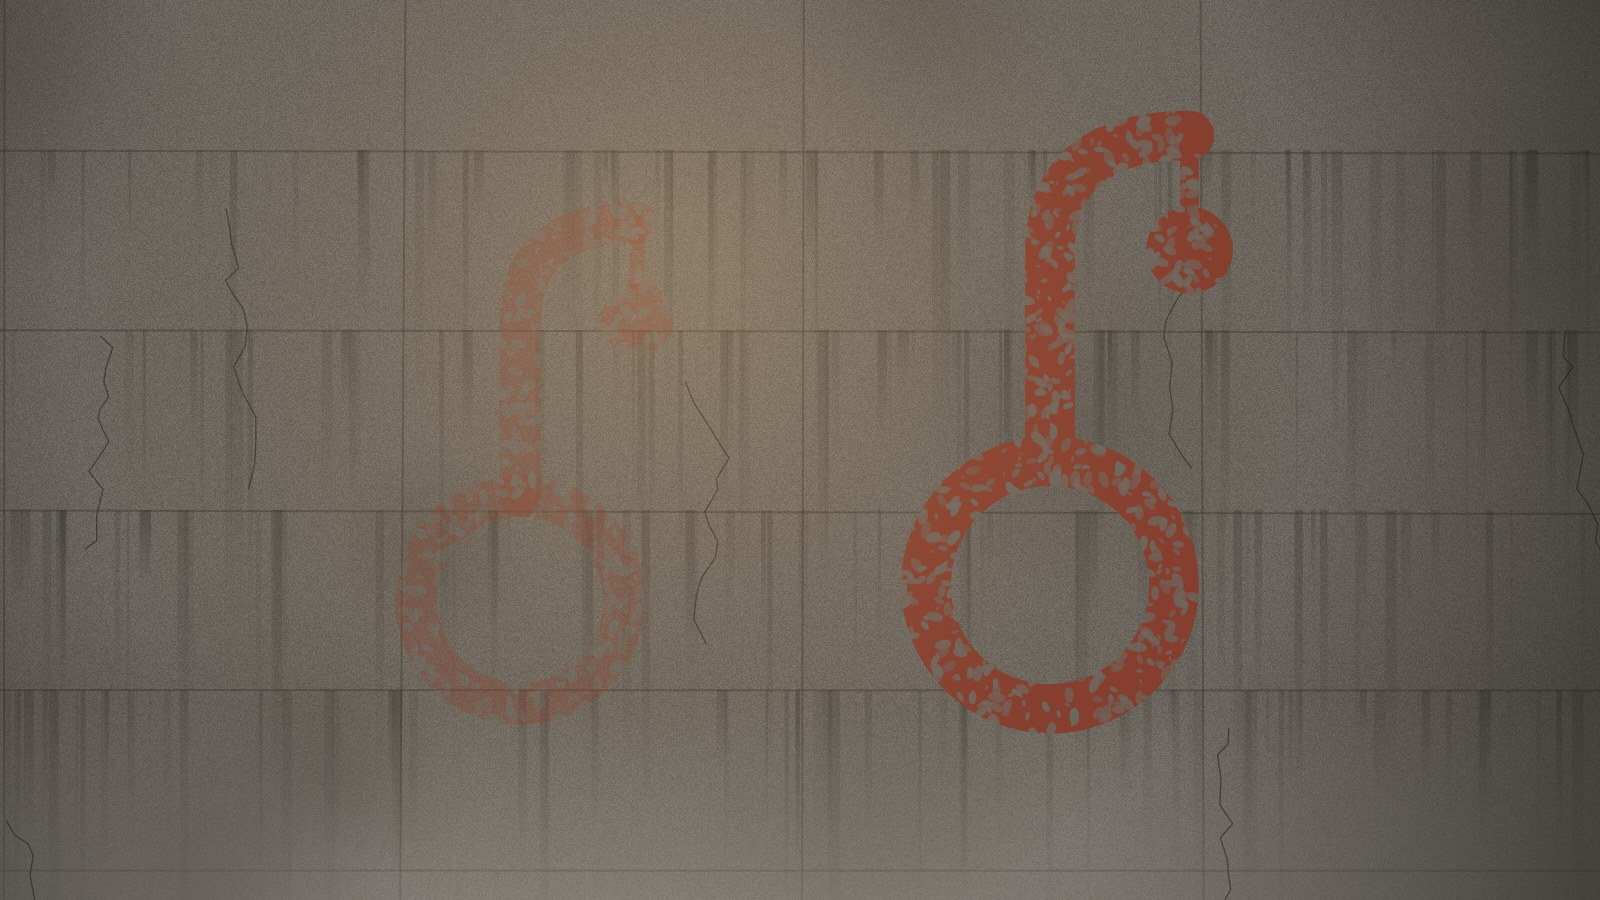
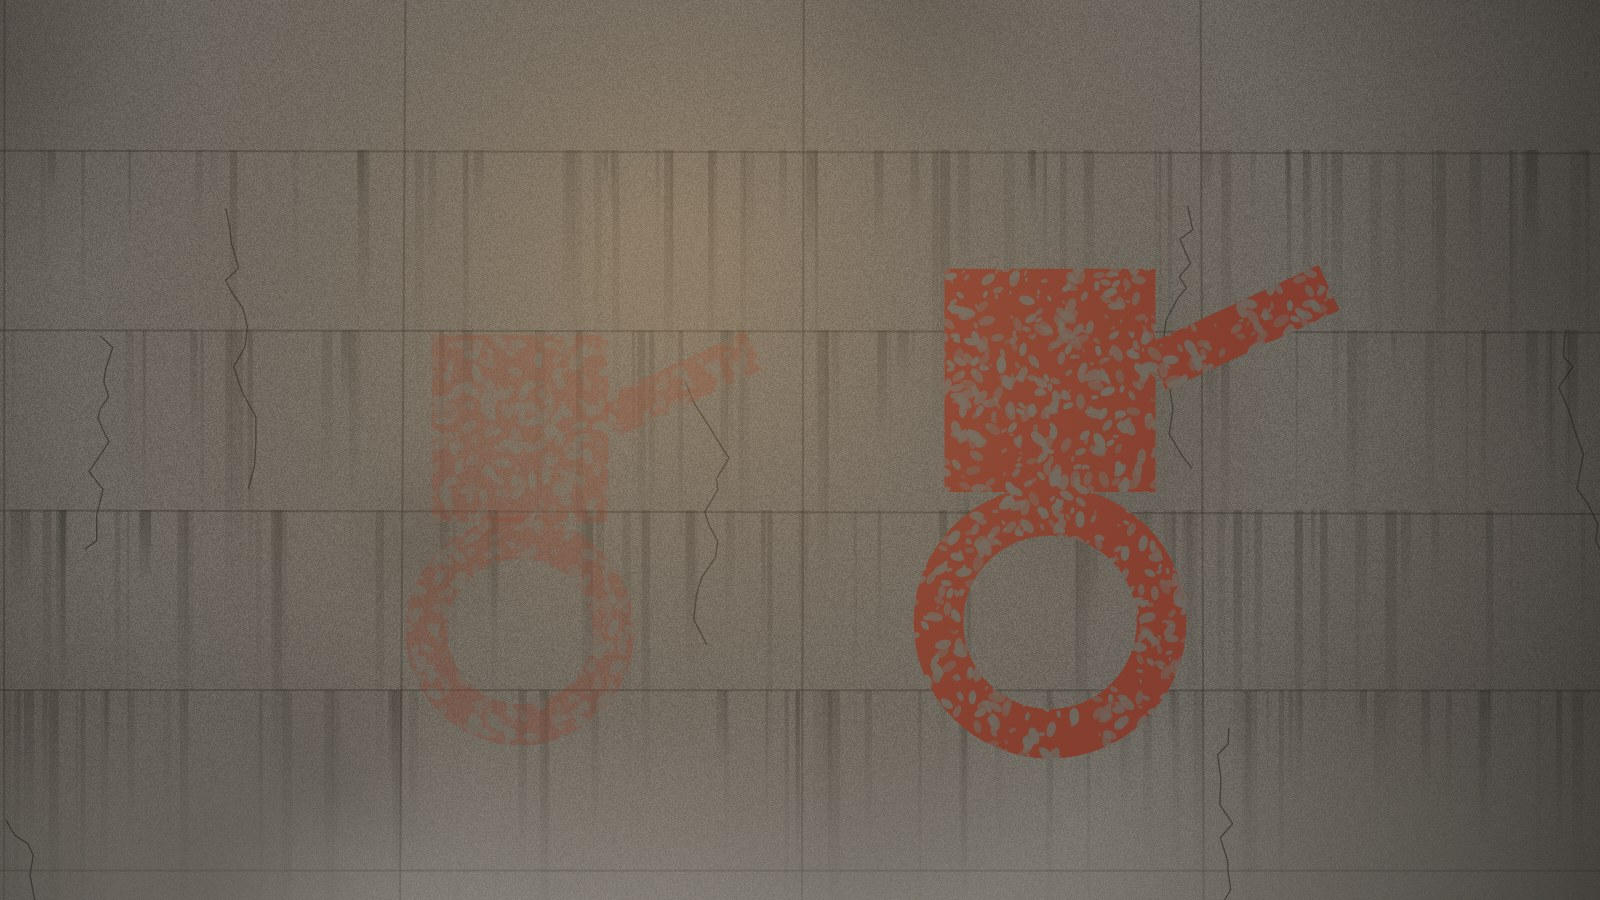
Symbol Wolta: kółko, prostokąt i ręka
Claude-Session: https://claude.ai/code/session_013iefmQsmPDHeotiCkSv8ph

Changed region(s): [[0.5625, 0.1244, 0.8438, 0.7156], [0.5625, 0.7156, 0.75, 0.84]]

diff --git a/docs/img/koncepty/symbol-wolta.html b/docs/img/koncepty/symbol-wolta.html
@@ -56,31 +56,26 @@ function child(ox,oy,s){
   wob(circ(ox-170*s,oy-120*s,22*s,16),4*s,3*s,ch,0.8);
   for(let k=0;k<8;k++){const t=k/8*6.283;wob([[ox-170*s+Math.cos(t)*30*s,oy-120*s+Math.sin(t)*30*s],[ox-170*s+Math.cos(t)*44*s,oy-120*s+Math.sin(t)*44*s]],2*s,2.5*s,ch,0.8)}
 }
-// 2. middle generation sign: ochre paint, simplified figure inside a ring
+// 2. middle generation sign: ochre paint, wheel + box + arm (Wojtek: kółko, prostokąt, ręka)
 function sign(ox,oy,s){
   const col='#b5874a';
-  g.save();g.strokeStyle=col;g.lineWidth=13*s;g.lineCap='round';
-  g.beginPath();g.arc(ox,oy+70*s,42*s,0,7);g.stroke();                // wheel
-  g.beginPath();g.moveTo(ox,oy+28*s);g.lineTo(ox,oy-60*s);g.stroke();   // body
-  g.beginPath();g.moveTo(ox,oy-60*s);g.quadraticCurveTo(ox+10*s,oy-125*s,ox+70*s,oy-120*s);g.stroke(); // boom
-  g.fillStyle=col;g.beginPath();g.arc(ox+70*s,oy-92*s,15*s,0,7);g.fill(); // lamp
-  g.lineWidth=5*s;g.globalAlpha=0.8;
-  for(const a of [-0.5,0,0.5]){g.beginPath();g.moveTo(ox+70*s+Math.sin(a)*24*s,oy-92*s+Math.cos(a)*24*s);g.lineTo(ox+70*s+Math.sin(a)*48*s,oy-92*s+Math.cos(a)*48*s);g.stroke()}
+  g.save();g.strokeStyle=col;g.fillStyle=col;g.lineWidth=12*s;g.lineCap='round';g.lineJoin='round';
+  g.beginPath();g.arc(ox,oy+80*s,40*s,0,7);g.stroke();                       // koło
+  g.strokeRect(ox-38*s,oy-50*s,76*s,88*s);                                  // prostokąt ciała
+  g.fillRect(ox-16*s,oy-28*s,32*s,9*s);                                      // okienko
+  g.beginPath();g.moveTo(ox+38*s,oy-5*s);g.lineTo(ox+95*s,oy-35*s);g.lineTo(ox+120*s,oy-10*s);g.stroke(); // ramię z łokciem
+  g.lineWidth=7*s;g.beginPath();g.moveTo(ox+120*s,oy-10*s);g.lineTo(ox+135*s,oy-18*s);g.moveTo(ox+120*s,oy-10*s);g.lineTo(ox+128*s,oy+6*s);g.stroke(); // chwytak
   g.restore();
-  // drips
   g.save();g.strokeStyle=col;g.globalAlpha=0.75;g.lineCap='round';
-  for(const [x,y,l] of [[ox-42*s,oy+75*s,50],[ox+2*s,oy+112*s,70],[ox+70*s,oy-78*s,40],[ox+40*s,oy+80*s,30]]){g.lineWidth=(3+R()*3)*s;g.beginPath();g.moveTo(x,y);g.lineTo(x+R()*2,y+l*s);g.stroke()}
+  for(const [x,y,l] of [[ox-38*s,oy+40*s,50],[ox+2*s,oy+122*s,70],[ox+38*s,oy+40*s,30],[ox+95*s,oy-30*s,45]]){g.lineWidth=(3+R()*3)*s;g.beginPath();g.moveTo(x,y);g.lineTo(x+R()*2,y+l*s);g.stroke()}
   g.restore();
-  // tally marks under it (votive, people counting visits)
-  wob([[ox-80*s,oy+150*s],[ox-80*s,oy+180*s]],2,4*s,'rgba(30,28,25,0.7)');wob([[ox-68*s,oy+150*s],[ox-68*s,oy+180*s]],2,4*s,'rgba(30,28,25,0.7)');wob([[ox-56*s,oy+150*s],[ox-56*s,oy+180*s]],2,4*s,'rgba(30,28,25,0.7)');wob([[ox-86*s,oy+175*s],[ox-48*s,oy+155*s]],2,4*s,'rgba(30,28,25,0.7)');
 }
-// 3. final pictogram: ring + vertical stroke + hook with dot. Rust red, worn
+// 3. final pictogram: ring, box on top, one stroke for the arm. Rust red, worn
 function picto(ox,oy,s,col='#8e3b2a',a=1){
-  g.save();g.globalAlpha=a;g.strokeStyle=col;g.fillStyle=col;g.lineWidth=16*s;g.lineCap='round';g.lineJoin='round';
-  g.beginPath();g.arc(ox,oy+50*s,40*s,0,7);g.stroke();                       // koło
-  g.beginPath();g.moveTo(ox,oy+10*s);g.lineTo(ox,oy-60*s);g.quadraticCurveTo(ox+2*s,oy-95*s,ox+45*s,oy-95*s);g.stroke(); // wysięgnik
-  g.lineWidth=6*s;g.beginPath();g.moveTo(ox+45*s,oy-95*s);g.lineTo(ox+45*s,oy-72*s);g.stroke(); // zawieszenie
-  g.beginPath();g.arc(ox+45*s,oy-58*s,14*s,0,7);g.fill();                    // lampa
+  g.save();g.globalAlpha=a;g.strokeStyle=col;g.fillStyle=col;g.lineWidth=16*s;g.lineCap='butt';g.lineJoin='miter';
+  g.beginPath();g.arc(ox,oy+62*s,36*s,0,7);g.stroke();                       // koło
+  g.fillRect(ox-34*s,oy-52*s,68*s,72*s);                                     // pełny prostokąt
+  g.beginPath();g.moveTo(ox+34*s,oy-20*s);g.lineTo(ox+90*s,oy-46*s);g.stroke(); // ręka
   g.restore();
 }
 function wear(x,y,w,h,amt){g.save();g.globalCompositeOperation='source-atop';for(let k=0;k<w*h*amt/40;k++){const px=x+R()*w,py=y+R()*h,r=1+R()*4;g.fillStyle='rgba(112,106,98,'+(0.5+R()*0.5)+')';g.beginPath();g.ellipse(px,py,r*1.8,r,R()*3,0,7);g.fill()}g.restore()}
@@ -96,7 +91,10 @@ g=L.getContext('2d');
 if(mode==='sciana'){
   child(330,430,1.15); wear(80,200,520,420,0.12);
   sign(810,420,1.25); wear(640,220,340,420,0.22);
-  picto(1300,440,1.45); wear(1180,280,260,330,0.30);
+  {const ox=810,oy=420,s=1.25;
+  const tc='rgba(30,28,25,0.7)';
+  wob([[ox-90*s,oy+150*s],[ox-90*s,oy+180*s]],0.5,4*s,tc);wob([[ox-78*s,oy+150*s],[ox-78*s,oy+180*s]],0.5,4*s,tc);wob([[ox-66*s,oy+150*s],[ox-66*s,oy+180*s]],0.5,4*s,tc);wob([[ox-96*s,oy+175*s],[ox-58*s,oy+155*s]],0.5,4*s,tc);}
+  picto(1300,440,1.45); wear(1180,280,280,330,0.16);
   // small labels (scratched numerals, as if years)
   g.font='italic 22px Georgia';g.fillStyle='rgba(225,220,205,0.55)';
   g.fillText('I',330,720);g.fillText('II',800,720);g.fillText('III',1290,720);

diff --git a/docs/SWIAT.md b/docs/SWIAT.md
@@ -417,7 +417,7 @@ Gra trwa wiele lat, więc to, co Wolt robi (albo zaniedbuje), powinno zostawać 
 | **Zwierzęta się uczą** | Odstraszacz działa coraz słabiej. Sokoły gniazdują na słupach Sieci. Gdy Wolt naprawia przyrodę, wraca więcej zwierząt: więcej jeleni, ale też więcej niedźwiedzi. Sukces ma koszt. |
 | **Ekologia** | Popiół z roku na rok cienieje tam, gdzie działają technologie klimatyczne; wraca zieleń, mokradła, owady. Tam, gdzie nic nie zrobiono, zostaje szaro. Mapa po 20 latach wygląda inaczej niż na początku. |
 | **Nieodwracalne decyzje** | Niektóre ruchy zmieniają teren na stałe, np. naprawa zapory zatapia dolinę jeszcze bardziej, a wycięcie Lasu Słupów otwiera przejazd i zabiera gniazda. |
-| **Ludzie i pokolenia** **[przyjęte przez Wojtka 2026-11-09]** | Dzieci, które pamiętają Wolta, dorastają i się starzeją. Wolt staje się legendą i słowem w ich języku. **Ludzie malują na ścianach symbol Wolta** (pomysł Wojtka): najpierw rysunek dziecka, potem znak, który z pokoleniami się upraszcza, aż zostaje prosty piktogram (koło, lampa na wysięgniku). Gracz może go spotkać w bunkrach i ruinach jako ślad, że ktoś tu o nim pamiętał, a nawet daleko od miejsc, gdzie Wolt był, co znaczy, że legenda wędrowała sama. Kolejne pokolenia traktują go inaczej niż pierwsze. Łączy się z [Zakończeniem bez ludzi](#pomysł-w-rozważaniu-zakończenie-bez-ludzi-do-decyzji-wojtek-2026-11-09). |
+| **Ludzie i pokolenia** **[przyjęte przez Wojtka 2026-11-09]** | Dzieci, które pamiętają Wolta, dorastają i się starzeją. Wolt staje się legendą i słowem w ich języku. **Ludzie malują na ścianach symbol Wolta** (pomysł Wojtka): najpierw rysunek dziecka, potem znak, który z pokoleniami się upraszcza, aż zostaje prosty piktogram: **kółko, na nim prostokąt, z prostokąta wystaje ręka** (Wojtek 2026-11-09). Gracz może go spotkać w bunkrach i ruinach jako ślad, że ktoś tu o nim pamiętał, a nawet daleko od miejsc, gdzie Wolt był, co znaczy, że legenda wędrowała sama. Kolejne pokolenia traktują go inaczej niż pierwsze. Łączy się z [Zakończeniem bez ludzi](#pomysł-w-rozważaniu-zakończenie-bez-ludzi-do-decyzji-wojtek-2026-11-09). |
 | **Sam Wolt** | Patyna, łaty i wymienione części zostają na modelu. Po latach gracz widzi na ciele historię swoich napraw. Stare ciała zostają w bazach jak relikwie. |
 | **Pamięć świata** | Miejsca, gdzie coś się stało (grób jelenia, pierwsza zapalona lampa, rozbity wózek), zostają na mapie jako małe znaki. |
 

diff --git a/docs/DECYZJE.md b/docs/DECYZJE.md
@@ -66,6 +66,7 @@ Oznaczenia w SWIAT.md: **[ustalone]** to decyzja Wojtka, **[propozycja]** to szk
 | Rdza: spowalnia, gdy coś nie jest naoliwione; lekarstwo to oliwienie i wymiana elementów. | [SWIAT.md: Wolt](SWIAT.md#wolt) |
 | Wojtek prosi, żeby przemyśleć długofalowe wpływy. Agent zaproponował listę (rdza i zużycie, infrastruktura bez opieki, wydeptane drogi, zwierzęta, które się uczą i wracają, ekologia, nieodwracalne decyzje, pokolenia ludzi, patyna Wolta, pamięć miejsc). Do oceny. | [SWIAT.md: Długofalowe skutki](SWIAT.md#długofalowe-skutki-propozycja) |
 | Z długofalowych skutków przyjęte „kolejne pokolenia ludzi, dla których Wolt staje się legendą”. Do tego ludzie malują na ścianach symbol Wolta. | [SWIAT.md: Długofalowe skutki](SWIAT.md#długofalowe-skutki-propozycja) |
+| Symbol Wolta na ścianach: kółko, na nim prostokąt, z prostokąta wystaje ręka. | [SWIAT.md: Długofalowe skutki](SWIAT.md#długofalowe-skutki-propozycja), [szkic](img/koncepty/symbol-wolta.jpg) |
 
 ## Czeka na decyzję
 
